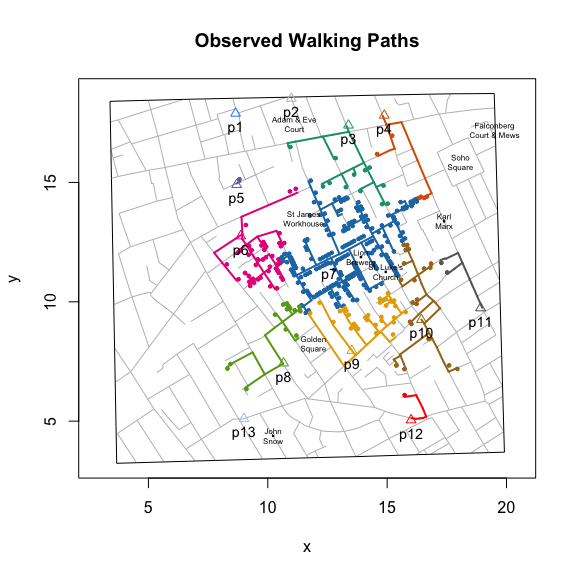
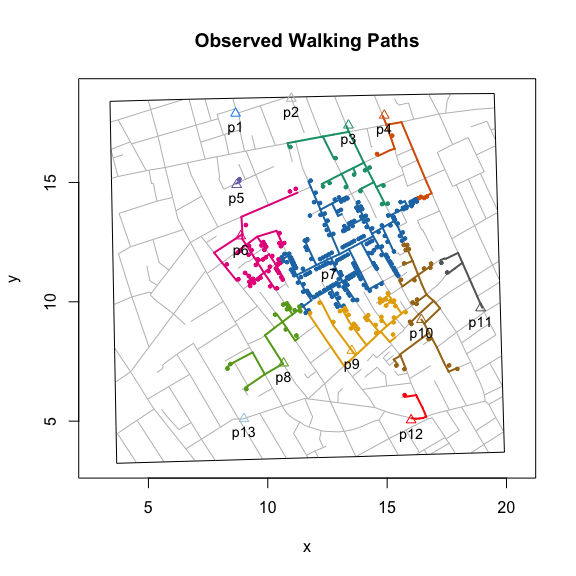
amend and tweak readme

diff --git a/README.md b/README.md
@@ -1,7 +1,6 @@
 
 <!-- README.md is generated from README.Rmd. Please edit that file -->
-cholera: amend, augment and aid analysis of John Snow's 1854 cholera data
--------------------------------------------------------------------------
+### cholera: amend, augment and aid analysis of John Snow's 1854 cholera data
 
 John Snow's map of the 1854 London cholera outbreak is one of the best known examples of data visualization:
 
@@ -9,17 +8,19 @@ John Snow's map of the 1854 London cholera outbreak is one of the best known exa
 
 However, as evidence of Snow's claims that cholera is a waterborne illness or that the Broad Street pump is the source of the outbreak, the map may not be as successful as is commonly thought.
 
-To help assess such criticisms and to allow people to analyze Snow's data for themselves, this package offers the following. First, it amends and augments [Dodson and Tobler](http://www.ncgia.ucsb.edu/pubs/snow/snow.html)'s 1992 digitization of Snow's map. Second, it allows users to compute and visualize pump neighborhoods, based on either Voronoi tessellation and walking distances, for any desired set of pumps (e.g., all but the Broad Street pump). Third, it allows users to locate and visualize individual cases, pumps, roads and walking paths.
+To help assess such criticism and to allow people to analyze Snow's data for themselves, this package offers the following. First, it amends and augments [Dodson and Tobler](http://www.ncgia.ucsb.edu/pubs/snow/snow.html)'s 1992 digitization of Snow's map. Second, it allows users to compute and visualize *pump neighborhoods*, the set of residences closest to a given pump, based on Voronoi tessellation or walking distance. Third, it allows users to locate and visualize individual cases, pumps, roads and walking paths.
+
+### example
+
+The function below computes and plots the 10 walking distance *pump neighborhoods* for the 578 recorded fatalities in Snow's map.
 
 ``` r
 plot(neighborhoodWalking())
-addLandmarks()
 ```
 
 ![](README-unnamed-chunk-3-1.png)
 
-Installation
-------------
+### installation
 
 ``` r
 # install.packages("devtools")
